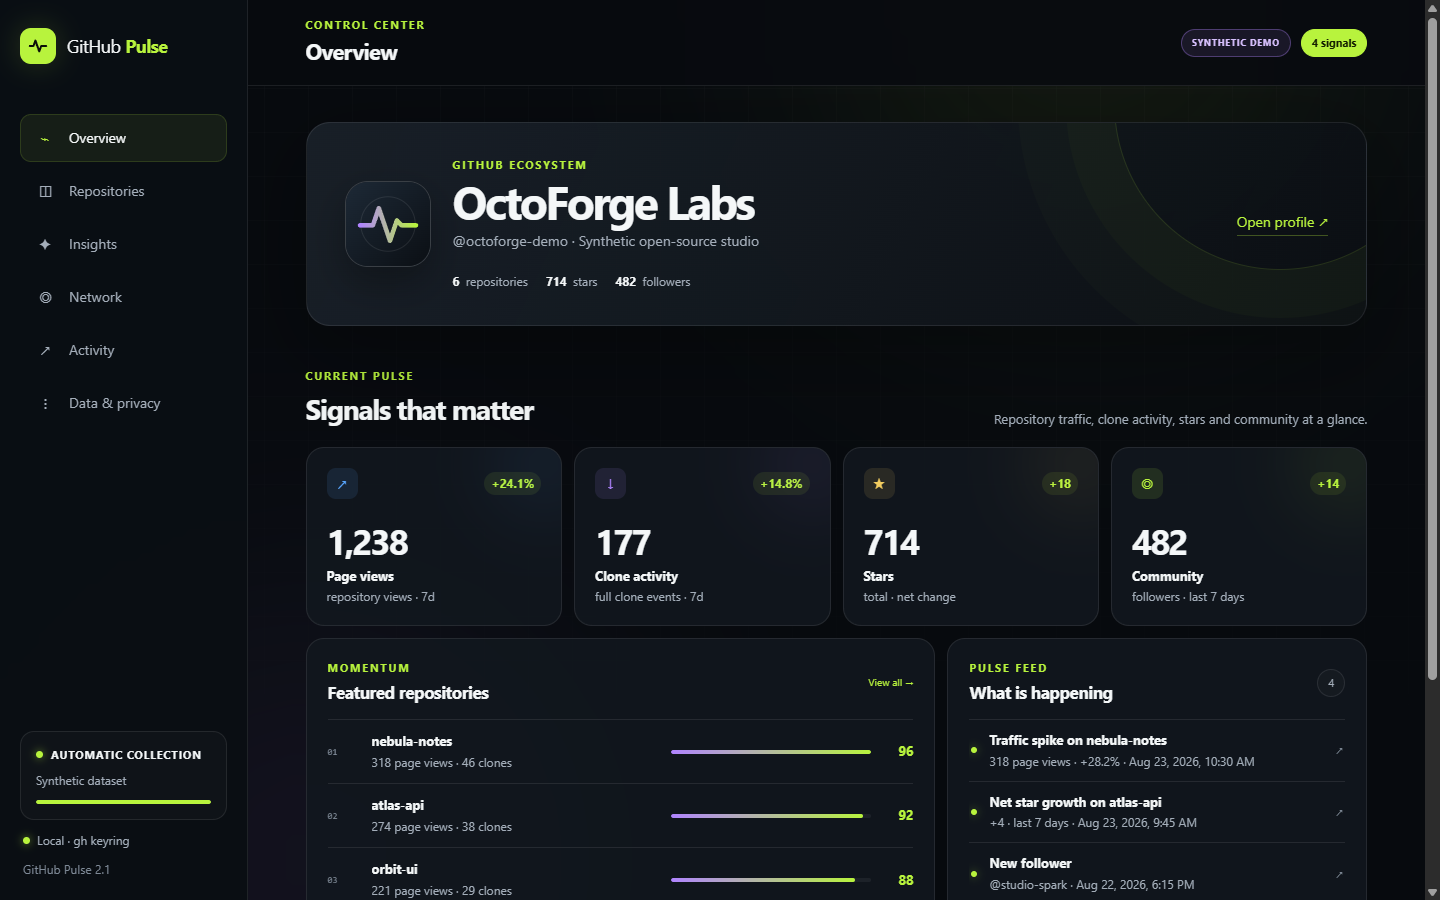
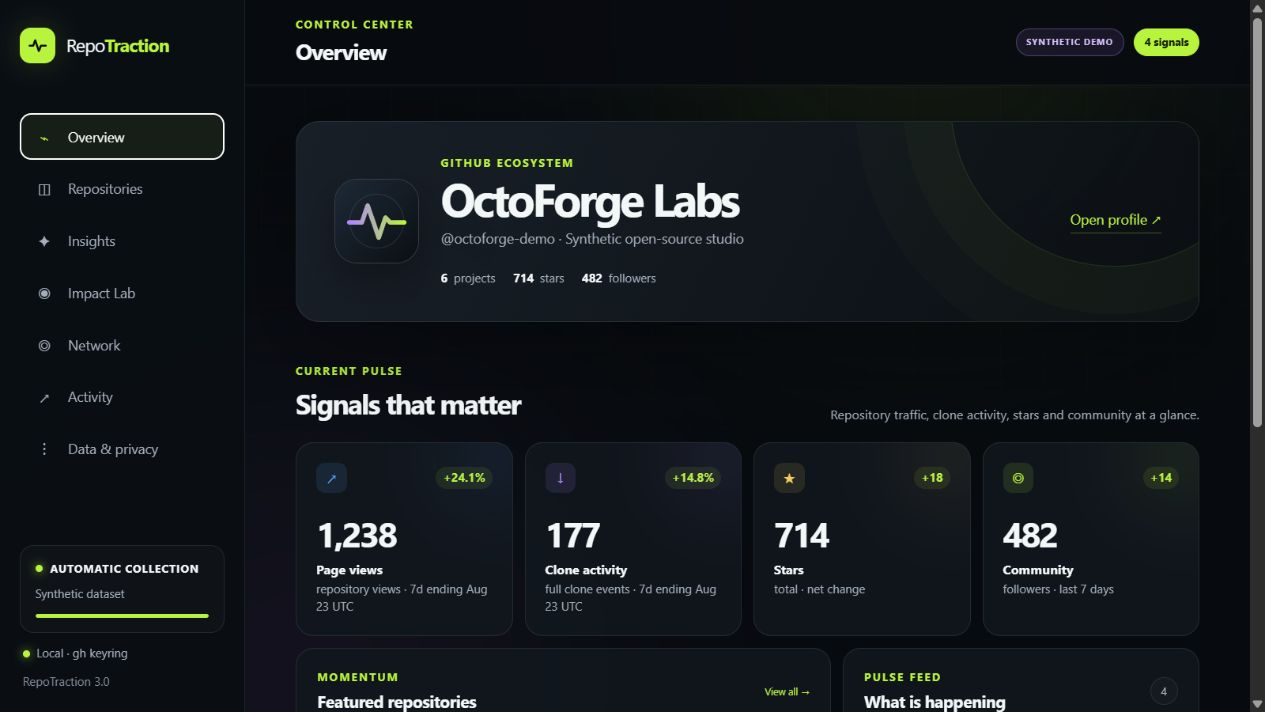
feat: add Impact Lab dashboard

diff --git a/static/styles.css b/static/styles.css
@@ -298,10 +298,10 @@ main { width: min(1380px, 100%); margin: 0 auto; padding: 36px clamp(24px, 4vw, 
 .achievement-list { display: grid; gap: 8px; }.achievement-row { padding: 14px; border: 1px solid var(--line); border-radius: 12px; background: rgba(255,255,255,.018); }.achievement-head { display: grid; grid-template-columns: 30px minmax(0,1fr) auto; align-items: center; gap: 9px; }.achievement-mark { display: grid; place-items: center; width: 29px; height: 29px; border-radius: 9px; color: var(--violet); background: rgba(176,132,255,.09); }.achievement-head strong, .achievement-head small { display: block; }.achievement-head strong { font-size: 10px; }.achievement-head small { margin-top: 3px; color: var(--muted); font-size: 7px; }.achievement-head b { color: var(--muted); font-size: 9px; }.achievement-row p { margin: 10px 0; color: var(--muted); font-size: 8px; line-height: 1.5; }.achievement-track { height: 3px; overflow: hidden; border-radius: 99px; background: rgba(255,255,255,.06); }.achievement-track i { display: block; height: 100%; background: var(--violet); }.achievement-row.candidate .achievement-mark { color: var(--lime); background: rgba(184,243,61,.09); }.achievement-row.candidate .achievement-track i { background: var(--lime); }
 .fine-print { margin: 14px 2px 0; color: var(--muted-2); font-size: 8px; line-height: 1.5; }
 
-.insight-summary { display: grid; grid-template-columns: repeat(4, 1fr); gap: 10px; }
-.insight-summary article { padding: 17px; border: 1px solid var(--line); border-radius: 14px; background: var(--surface); }
-.insight-summary span, .insight-summary small { display: block; color: var(--muted); font-size: 8px; }
-.insight-summary strong { display: block; margin: 7px 0 2px; font-size: 25px; }
+.insight-summary, .impact-summary { display: grid; grid-template-columns: repeat(4, 1fr); gap: 10px; }
+.insight-summary article, .impact-summary article { padding: 17px; border: 1px solid var(--line); border-radius: 14px; background: var(--surface); }
+.insight-summary span, .insight-summary small, .impact-summary span, .impact-summary small { display: block; color: var(--muted); font-size: 8px; }
+.insight-summary strong, .impact-summary strong { display: block; margin: 7px 0 2px; font-size: 25px; }
 .insights-grid, .digest-grid { display: grid; grid-template-columns: minmax(0, 1.35fr) minmax(280px, .65fr); align-items: start; gap: 12px; margin-top: 12px; }
 .opportunity-list { display: grid; gap: 7px; max-height: 620px; overflow: auto; }
 .opportunity-row { display: grid; grid-template-columns: auto minmax(0, 1fr) auto; align-items: center; gap: 12px; padding: 13px; border: 1px solid var(--line); border-radius: 12px; color: var(--text); background: rgba(255,255,255,.014); text-decoration: none; transition: .16s ease; }
@@ -357,6 +357,51 @@ main { width: min(1380px, 100%); margin: 0 auto; padding: 36px clamp(24px, 4vw, 
 .alert-card p { margin: 0 0 18px; color: var(--muted); font-size: 10px; line-height: 1.65; }
 .alert-card > small { display: block; margin-top: 11px; color: var(--muted-2); font-size: 8px; line-height: 1.5; }
 
+.impact-layout { display: grid; grid-template-columns: minmax(260px, .38fr) minmax(0, 1fr); align-items: start; gap: 12px; margin-top: 12px; }
+.impact-method-card { position: sticky; top: 105px; }
+.impact-method-card > p { margin: 0; color: var(--muted); font-size: 13px; line-height: 1.6; }
+.method-steps { display: grid; gap: 0; margin: 22px 0; padding: 0; list-style: none; }
+.method-steps li { display: grid; grid-template-columns: 34px minmax(0, 1fr); gap: 10px; padding: 13px 0; border-top: 1px solid var(--line); }
+.method-steps li > span { display: grid; place-items: center; width: 30px; height: 30px; border-radius: 9px; color: var(--lime); background: rgba(184,243,61,.07); font: 10px ui-monospace, SFMono-Regular, Consolas, monospace; }
+.method-steps p, .method-steps strong { display: block; margin: 0; }
+.method-steps p { color: var(--muted); font-size: 12px; line-height: 1.45; }
+.method-steps strong { margin-bottom: 2px; color: var(--text); font-size: 13px; }
+.impact-method-card .method-warning { padding: 12px; border: 1px solid rgba(242,204,96,.18); border-radius: 10px; color: var(--amber); background: rgba(242,204,96,.045); font-size: 12px; }
+.impact-event-list { display: grid; gap: 10px; }
+.impact-event { padding: 17px; border: 1px solid var(--line); border-radius: 14px; background: rgba(255,255,255,.014); }
+.impact-event.outperformed { border-color: rgba(184,243,61,.16); }
+.impact-event.underperformed { border-color: rgba(255,123,114,.16); }
+.impact-event-top, .impact-event-title { display: flex; align-items: center; justify-content: space-between; gap: 12px; }
+.event-type { display: inline-flex; padding: 5px 8px; border-radius: 999px; color: var(--blue); background: rgba(88,166,255,.09); font-size: 10px; font-weight: 800; text-transform: uppercase; letter-spacing: .08em; }
+.event-type.release { color: var(--lime); background: rgba(184,243,61,.08); }
+.event-type.readme { color: var(--violet); background: rgba(176,132,255,.09); }
+.event-type.metadata { color: var(--amber); background: rgba(242,204,96,.09); }
+.impact-event-title { align-items: flex-start; margin-top: 13px; }
+.impact-event-title a { color: var(--text); font-size: 16px; font-weight: 760; text-decoration: none; }
+.impact-event-title a:hover { color: var(--lime); }
+.impact-event-title p { margin: 4px 0 0; color: var(--muted); font-size: 12px; }
+.outcome-pill { display: inline-flex; flex: 0 0 auto; padding: 6px 9px; border-radius: 999px; color: var(--muted); background: rgba(255,255,255,.04); font-size: 11px; font-weight: 700; white-space: nowrap; }
+.outcome-pill.outperformed { color: var(--lime); background: rgba(184,243,61,.08); }
+.outcome-pill.underperformed { color: var(--coral); background: rgba(255,123,114,.09); }
+.outcome-pill.matched { color: var(--blue); background: rgba(88,166,255,.08); }
+.impact-commit { margin: 12px 0 0; padding-left: 10px; border-left: 2px solid rgba(176,132,255,.4); color: var(--muted); font: 12px ui-monospace, SFMono-Regular, Consolas, monospace; }
+.impact-summary-copy { margin: 12px 0; color: var(--muted); font-size: 13px; line-height: 1.55; }
+.impact-metrics { display: grid; grid-template-columns: repeat(2, minmax(0, 1fr)); gap: 8px; }
+.impact-metric { padding: 13px; border: 1px solid var(--line); border-radius: 11px; background: rgba(7,10,14,.32); }
+.impact-metric-head { display: flex; justify-content: space-between; gap: 10px; }
+.impact-metric-head span { color: var(--text); font-size: 12px; font-weight: 700; }
+.impact-metric-head b { color: var(--muted-2); font-size: 10px; font-weight: 600; }
+.metric-flow { display: grid; grid-template-columns: 1fr auto 1fr; align-items: center; gap: 9px; margin: 13px 0; }
+.metric-flow > span { padding: 8px; border-radius: 9px; background: rgba(255,255,255,.025); }
+.metric-flow small, .metric-flow strong { display: block; }
+.metric-flow small { color: var(--muted-2); font-size: 10px; }
+.metric-flow strong { margin-top: 2px; font-size: 18px; }
+.metric-flow i { color: var(--muted-2); font-style: normal; }
+.impact-deltas { display: flex; flex-wrap: wrap; gap: 5px; }
+.impact-deltas span, .impact-deltas strong { padding: 4px 6px; border-radius: 7px; color: var(--muted); background: rgba(255,255,255,.03); font-size: 10px; font-weight: 600; }
+.impact-deltas strong { color: var(--lime); }
+.impact-metric.waiting p { margin: 14px 0 0; color: var(--muted-2); font-size: 11px; }
+
 .data-control-grid { display: grid; grid-template-columns: 1.1fr .9fr; gap: 12px; }
 .collection-card > p, .export-card > p { min-height: 34px; margin: 0 0 18px; color: var(--muted); font-size: 10px; line-height: 1.6; }
 .status-pill.running { color: #152000; border-color: var(--lime); background: var(--lime); }
@@ -382,7 +427,8 @@ body { font-size: 14px; line-height: 1.45; }
 .movement-row small, .filter, .user-copy small, .activity-summary span,
 .activity-summary small, .activity-row small, .achievement-head small,
 .achievement-head b, .achievement-row p, .fine-print,
-.insight-summary span, .insight-summary small, .opportunity-copy small,
+.insight-summary span, .insight-summary small, .impact-summary span,
+.impact-summary small, .opportunity-copy small,
 .opportunity-copy em, .health-row small, .comparison-metric span,
 .digest-summary span, .digest-summary small, .digest-line small,
 .digest-line > b, .alert-card > small, .progress-row strong {
@@ -421,7 +467,7 @@ body { font-size: 14px; line-height: 1.45; }
   .app-layout { grid-template-columns: 210px minmax(0,1fr); }
   .sidebar { padding-inline: 15px; }
   .signal-grid { grid-template-columns: repeat(2, 1fr); }
-  .insight-summary { grid-template-columns: repeat(2, 1fr); }
+  .insight-summary, .impact-summary { grid-template-columns: repeat(2, 1fr); }
   .traffic-tables { grid-template-columns: 1fr 1fr; }
   .star-card { grid-column: 1 / -1; }
   .repo-row { grid-template-columns: minmax(180px,1.4fr) repeat(3,minmax(80px,.65fr)) 48px; gap: 10px; }
@@ -435,7 +481,8 @@ body { font-size: 14px; line-height: 1.45; }
   .nav-item { width: auto; flex: 0 0 auto; padding: 8px 10px; }.nav-icon { width: 18px; }
   .sidebar-collector, .sidebar-foot { display: none; }
   .topbar { top: 53px; min-height: 74px; }
-  .overview-grid, .activity-grid, .data-control-grid, .insights-grid, .digest-grid { grid-template-columns: 1fr; }
+  .overview-grid, .activity-grid, .data-control-grid, .insights-grid, .digest-grid, .impact-layout { grid-template-columns: 1fr; }
+  .impact-method-card { position: static; }
   .network-grid { grid-template-columns: 1fr; }.movements-card { position: static; max-height: 420px; }
   .repo-radar-card { overflow-x: auto; }.repo-table, .table-head { min-width: 760px; }
   .about-grid { grid-template-columns: 1fr; }.about-card { min-height: auto; }.about-card h3 { margin-top: 24px; }
@@ -448,7 +495,7 @@ body { font-size: 14px; line-height: 1.45; }
   main { padding: 22px 14px 30px; }
   .profile-hero { min-height: 160px; padding: 23px; }.hero-profile { align-items: start; gap: 14px; }.hero-profile img { width: 58px; height: 58px; border-radius: 16px; }.hero-copy h2 { font-size: 26px; }.hero-copy > p:not(.eyebrow) { max-width: 220px; }.hero-link { display: none; }.hero-metrics { gap: 9px; margin-top: 16px; }.hero-metrics span { flex-basis: 40%; }
   .section-heading { align-items: start; flex-direction: column; gap: 7px; margin-top: 32px; }.section-heading > p { text-align: left; }.section-heading h2 { font-size: 24px; }
-  .signal-grid, .stat-grid, .activity-summary, .insight-summary { grid-template-columns: repeat(2, 1fr); gap: 8px; }.signal-card { min-height: 155px; padding: 16px; }.signal-card > strong { font-size: 29px; }
+  .signal-grid, .stat-grid, .activity-summary, .insight-summary, .impact-summary { grid-template-columns: repeat(2, 1fr); gap: 8px; }.signal-card { min-height: 155px; padding: 16px; }.signal-card > strong { font-size: 29px; }
   .ranking-row { grid-template-columns: 25px minmax(120px,1fr) 25px; }.rank-bar { display: none; }
   .panel-card { padding: 17px; }
   .traffic-heading { align-items: stretch; }.repo-select-wrap { align-items: stretch; flex-direction: column; width: 100%; }.repo-select-wrap select { width: 100%; }
@@ -459,6 +506,8 @@ body { font-size: 14px; line-height: 1.45; }
   .opportunity-row { grid-template-columns: auto minmax(0,1fr); }.opportunity-metric { display: none; }
   .comparison-controls { grid-template-columns: 1fr; }.compare-versus { display: none; }
   .comparison-grid { grid-template-columns: 1fr; }
+  .impact-event-title { align-items: flex-start; flex-direction: column; }
+  .impact-metrics { grid-template-columns: 1fr; }
   .digest-summary { grid-template-columns: repeat(2, 1fr); }.digest-actions { justify-content: flex-start; }
   footer { margin-inline: 14px; gap: 8px; flex-direction: column; }
 }

diff --git a/static/app.js b/static/app.js
@@ -3,6 +3,7 @@ const state = {
   signals: null,
   activity: null,
   insights: null,
+  impact: null,
   digest: null,
   relationshipFilter: "not_following_back",
   search: "",
@@ -449,6 +450,70 @@ async function loadInsights(refresh = false) {
   }
 }
 
+function signedPercent(value) {
+  if (value === null || value === undefined) return "—";
+  const numeric = Number(value);
+  return `${numeric > 0 ? "+" : ""}${number.format(numeric)}%`;
+}
+
+function renderImpactMetric(label, metric = {}) {
+  if (metric.status === "waiting") {
+    return `<div class="impact-metric waiting"><div class="impact-metric-head"><span>${escapeHtml(label)}</span><b>Waiting for traffic</b></div><p>No post-event day is available yet.</p></div>`;
+  }
+  const change = metric.change_kind === "new" ? "New activity" : signedPercent(metric.change_pct);
+  const lift = metric.lift_pct_points === null || metric.lift_pct_points === undefined
+    ? "No portfolio baseline"
+    : `${signedPercent(metric.lift_pct_points)} vs portfolio`;
+  return `<div class="impact-metric">
+    <div class="impact-metric-head"><span>${escapeHtml(label)}</span><b>${escapeHtml(metric.status === "complete" ? "7-day result" : `${metric.window_days || 0}-day early read`)}</b></div>
+    <div class="metric-flow"><span><small>Before</small><strong>${metric.pre === null || metric.pre === undefined ? "—" : number.format(metric.pre)}</strong></span><i>→</i><span><small>After</small><strong>${number.format(metric.post || 0)}</strong></span></div>
+    <div class="impact-deltas"><span>${escapeHtml(change)} change</span><span>${escapeHtml(metric.portfolio_change_pct === null || metric.portfolio_change_pct === undefined ? "Portfolio unavailable" : `${signedPercent(metric.portfolio_change_pct)} portfolio median`)}</span><strong>${escapeHtml(lift)}</strong></div>
+  </div>`;
+}
+
+function renderImpactLab(data) {
+  state.impact = data;
+  const summary = data.summary || {};
+  const values = [summary.events || 0, summary.measured || 0, summary.important || 0, summary.releases || 0];
+  $$("#impactSummary strong").forEach((target, index) => {
+    target.textContent = number.format(values[index]);
+  });
+  $("#impactCount").textContent = number.format(summary.events || 0);
+  $("#impactMethodName").textContent = data.method?.name || "Portfolio Baseline";
+  $("#impactMethodDescription").textContent = data.method?.description || "Comparing each intervention with the rest of the portfolio.";
+  $("#impactMethodLimitation").textContent = data.method?.limitation || "Observational evidence is not proof of causality.";
+
+  const events = data.events || [];
+  $("#impactEventList").innerHTML = events.length
+    ? events.map((event) => {
+      const message = event.metadata?.message ? `<p class="impact-commit">${escapeHtml(event.metadata.message)}</p>` : "";
+      return `<article class="impact-event ${escapeHtml(event.outcome_key || "collecting")}">
+        <div class="impact-event-top">
+          <span class="event-type ${escapeHtml(event.event_type)}">${escapeHtml(event.event_type)}</span>
+          <span class="confidence-pill ${escapeHtml(event.confidence || "low")}">${escapeHtml(event.confidence || "low")} confidence</span>
+        </div>
+        <div class="impact-event-title">
+          <div><a href="${escapeHtml(event.url)}" target="_blank" rel="noreferrer">${escapeHtml(event.title)}</a><p>${escapeHtml(event.name)} · ${formatDateTime(event.occurred_at)}</p></div>
+          <span class="outcome-pill ${escapeHtml(event.outcome_key || "collecting")}">${escapeHtml(event.outcome || "Collecting evidence")}</span>
+        </div>
+        ${message}
+        <p class="impact-summary-copy">${escapeHtml(event.summary)}</p>
+        <div class="impact-metrics">${renderImpactMetric("Page views", event.metrics?.views)}${renderImpactMetric("Clone events", event.metrics?.clones)}</div>
+      </article>`;
+    }).join("")
+    : '<div class="quiet-state"><span>◎</span><strong>No interventions recorded yet</strong><p>Run a full collection to import recent releases and README changes. Future metadata changes will be detected automatically.</p></div>';
+}
+
+async function loadImpact(refresh = false) {
+  if (state.impact && !refresh) return;
+  hideError();
+  try {
+    renderImpactLab(await api("/api/impact"));
+  } catch (error) {
+    showError(error.message);
+  }
+}
+
 async function copyWeeklyDigest() {
   if (!state.digest?.markdown) await loadInsights();
   if (!state.digest?.markdown) return;
@@ -709,6 +774,7 @@ async function pollCollection() {
       await loadCore(false);
       if (state.activity) await loadActivity(true);
       if (state.insights) await loadInsights(true);
+      if (state.impact) await loadImpact(true);
     } else if (collection.running) {
       state.collectionWasRunning = true;
     }
@@ -734,6 +800,7 @@ const pageTitles = {
   overview: "Overview",
   repositories: "Repositories",
   insights: "Insights",
+  impact: "Impact Lab",
   network: "Network",
   activity: "Activity",
   data: "Data & privacy",
@@ -749,6 +816,7 @@ function switchView(view) {
   window.scrollTo({ top: 0, behavior: "smooth" });
   if (view === "activity") loadActivity();
   if (view === "insights") loadInsights();
+  if (view === "impact") loadImpact();
 }
 
 $$(".nav-item").forEach((button) => button.addEventListener("click", () => switchView(button.dataset.view)));

diff --git a/static/demo-data.js b/static/demo-data.js
@@ -415,6 +415,99 @@ const digest = {
   markdown: "# RepoTraction Weekly Digest\n\nSynthetic demo data.",
 };
 
+function impactMetric(metric, pre, post, portfolio, days, confidence) {
+  const change = Math.round(((post - pre) / pre) * 1000) / 10;
+  return {
+    metric,
+    status: days === 7 ? "complete" : "collecting",
+    window_days: days,
+    pre,
+    post,
+    change_pct: change,
+    change_kind: "measured",
+    portfolio_change_pct: portfolio,
+    portfolio_repositories: 5,
+    lift_pct_points: Math.round((change - portfolio) * 10) / 10,
+    confidence,
+  };
+}
+
+const impactLab = {
+  generated_at: generatedAt,
+  summary: {
+    events: 3,
+    releases: 1,
+    readme_changes: 1,
+    metadata_changes: 1,
+    measured: 2,
+    important: 1,
+  },
+  method: {
+    name: "Portfolio Baseline",
+    description: "Compares up to seven observed days before and after each event, then subtracts the median change across other repositories in the same portfolio.",
+    limitation: "This is observational evidence, not proof that the repository change caused the measured traffic movement.",
+  },
+  events: [
+    {
+      id: 1,
+      repo: account + "/nebula-notes",
+      name: "nebula-notes",
+      event_type: "release",
+      title: "Release v1.8.0",
+      occurred_at: "2026-08-17T10:00:00Z",
+      url: "https://example.com/octoforge-demo/nebula-notes/releases/v1.8.0",
+      metadata: { tag: "v1.8.0" },
+      outcome_key: "outperformed",
+      outcome: "Outperformed portfolio baseline",
+      summary: "Clone events changed +112.5% versus a +9.4% portfolio median.",
+      confidence: "high",
+      important: true,
+      metrics: {
+        views: impactMetric("views", 248, 318, 8.5, 7, "high"),
+        clones: impactMetric("clones", 16, 34, 9.4, 7, "high"),
+      },
+    },
+    {
+      id: 2,
+      repo: account + "/atlas-api",
+      name: "atlas-api",
+      event_type: "readme",
+      title: "README updated",
+      occurred_at: "2026-08-20T09:30:00Z",
+      url: "https://example.com/octoforge-demo/atlas-api/commit/demo",
+      metadata: { message: "docs: move the three-step quick start above the fold" },
+      outcome_key: "outperformed",
+      outcome: "Outperformed portfolio baseline",
+      summary: "Page views changed +33.6% versus a +7.1% portfolio median.",
+      confidence: "medium",
+      important: false,
+      metrics: {
+        views: impactMetric("views", 122, 163, 7.1, 4, "medium"),
+        clones: impactMetric("clones", 18, 25, 6.4, 4, "medium"),
+      },
+    },
+    {
+      id: 3,
+      repo: account + "/signal-lab",
+      name: "signal-lab",
+      event_type: "metadata",
+      title: "Repository metadata updated",
+      occurred_at: "2026-08-23T08:00:00Z",
+      url: "https://example.com/octoforge-demo/signal-lab",
+      metadata: { changed_fields: ["topics_json", "homepage"] },
+      outcome_key: "collecting",
+      outcome: "Collecting evidence",
+      summary: "A comparable before/after window is not available yet.",
+      confidence: "low",
+      important: false,
+      metrics: {
+        views: { metric: "views", status: "waiting", window_days: 0 },
+        clones: { metric: "clones", status: "waiting", window_days: 0 },
+      },
+    },
+  ],
+};
+
 const trafficHistory = [
   [10, 58, 34], [11, 63, 37], [12, 54, 31], [13, 71, 42],
   [14, 69, 40], [15, 82, 49], [16, 77, 45], [17, 91, 53],
@@ -520,6 +613,7 @@ export function getDemoResponse(path) {
   if (url.pathname === "/api/dashboard") return clone(dashboard);
   if (url.pathname === "/api/signals") return clone(signals);
   if (url.pathname === "/api/opportunities") return clone(opportunityCenter);
+  if (url.pathname === "/api/impact") return clone(impactLab);
   if (url.pathname === "/api/digest") return clone(digest);
   if (url.pathname === "/api/activity") return clone(activity);
   if (url.pathname === "/api/collection") return clone(collection);

diff --git a/static/index.html b/static/index.html
@@ -31,6 +31,9 @@
           <button class="nav-item" data-view="insights" type="button">
             <span class="nav-icon">✦</span><span>Insights</span>
           </button>
+          <button class="nav-item" data-view="impact" type="button">
+            <span class="nav-icon">◉</span><span>Impact Lab</span>
+          </button>
           <button class="nav-item" data-view="network" type="button">
             <span class="nav-icon">◎</span><span>Network</span>
           </button>
@@ -257,6 +260,43 @@
                 <p>Receive a local notification when RepoTraction detects important traffic, star or community changes.</p>
                 <button id="desktopAlertsButton" class="button button-primary" type="button">Enable desktop alerts</button>
                 <small id="desktopAlertsStatus">Disabled · nothing leaves your computer</small>
+              </article>
+            </div>
+          </section>
+
+          <section id="impactView" class="view-panel">
+            <div class="section-heading">
+              <div><p class="eyebrow">Impact Lab</p><h2>Measure what changed</h2></div>
+              <p>Connect releases, README work and repository metadata changes with observed traffic movement.</p>
+            </div>
+
+            <section id="impactSummary" class="impact-summary" aria-label="Impact summary">
+              <article><span>Tracked changes</span><strong>—</strong><small>impact ledger events</small></article>
+              <article><span>Measured</span><strong>—</strong><small>comparable windows</small></article>
+              <article><span>Important</span><strong>—</strong><small>large relative movement</small></article>
+              <article><span>Releases</span><strong>—</strong><small>detected automatically</small></article>
+            </section>
+
+            <div class="impact-layout">
+              <article class="panel-card impact-method-card">
+                <div class="card-heading"><div><p class="eyebrow">Method</p><h3 id="impactMethodName">Portfolio Baseline</h3></div></div>
+                <p id="impactMethodDescription">Comparing the repository before and after each tracked change.</p>
+                <ol class="method-steps">
+                  <li><span>01</span><p><strong>Detect</strong>Release, README or metadata change.</p></li>
+                  <li><span>02</span><p><strong>Compare</strong>Up to seven days before and after.</p></li>
+                  <li><span>03</span><p><strong>Control</strong>Subtract the portfolio median movement.</p></li>
+                </ol>
+                <p id="impactMethodLimitation" class="method-warning">Observational evidence is not proof of causality.</p>
+              </article>
+
+              <article class="panel-card impact-ledger-card">
+                <div class="card-heading">
+                  <div><p class="eyebrow">Evidence ledger</p><h3>Repository interventions</h3></div>
+                  <span id="impactCount" class="count-pill">0</span>
+                </div>
+                <div id="impactEventList" class="impact-event-list">
+                  <div class="data-empty">Collecting repository events…</div>
+                </div>
               </article>
             </div>
           </section>

diff --git a/README.md b/README.md
@@ -38,9 +38,7 @@ There is no username to configure and no token to paste into the app.
 | **Activity** | Recent public events and an experimental Achievement Lab |
 | **Data** | Daily collection status, CSV exports and a complete JSON backup |
 
-![RepoTraction repository radar](docs/screenshots/repositories.png)
-
-![RepoTraction opportunity center and weekly digest](docs/screenshots/insights.png)
+![RepoTraction Impact Lab](docs/screenshots/impact-lab.png)
 
 ## Designed for every GitHub account
 
